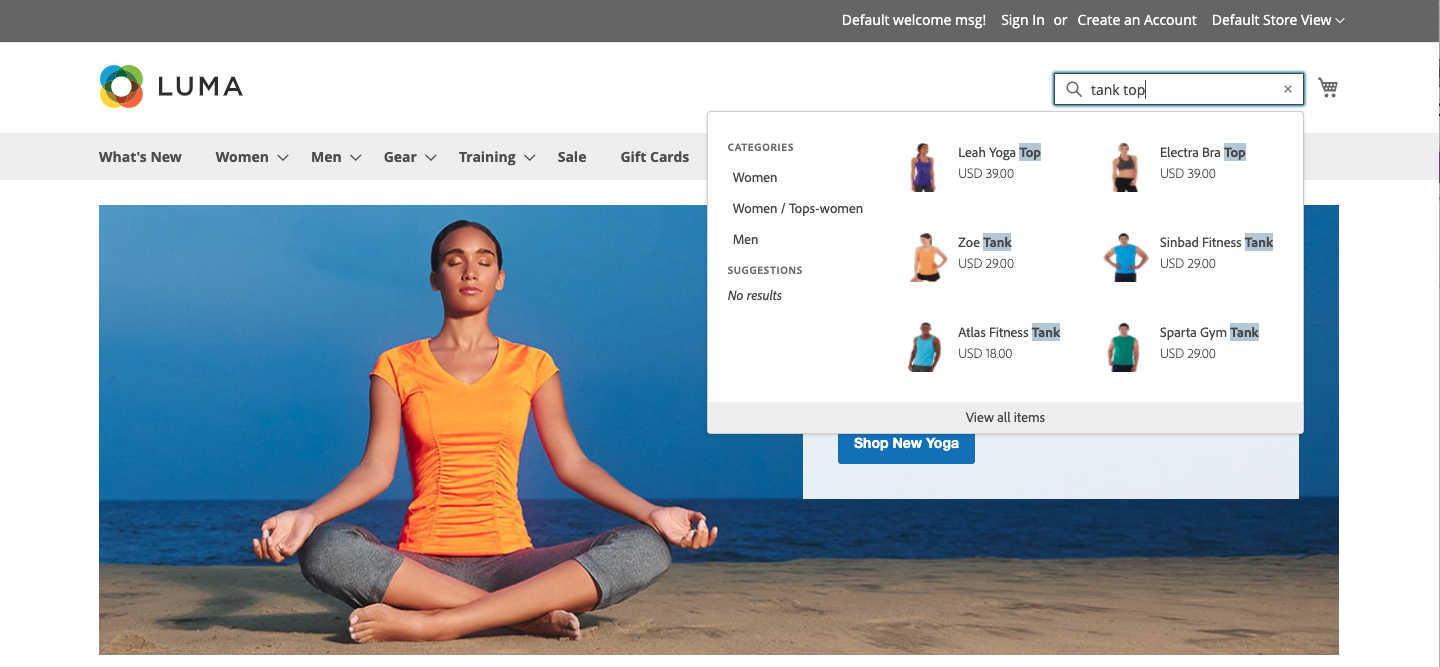
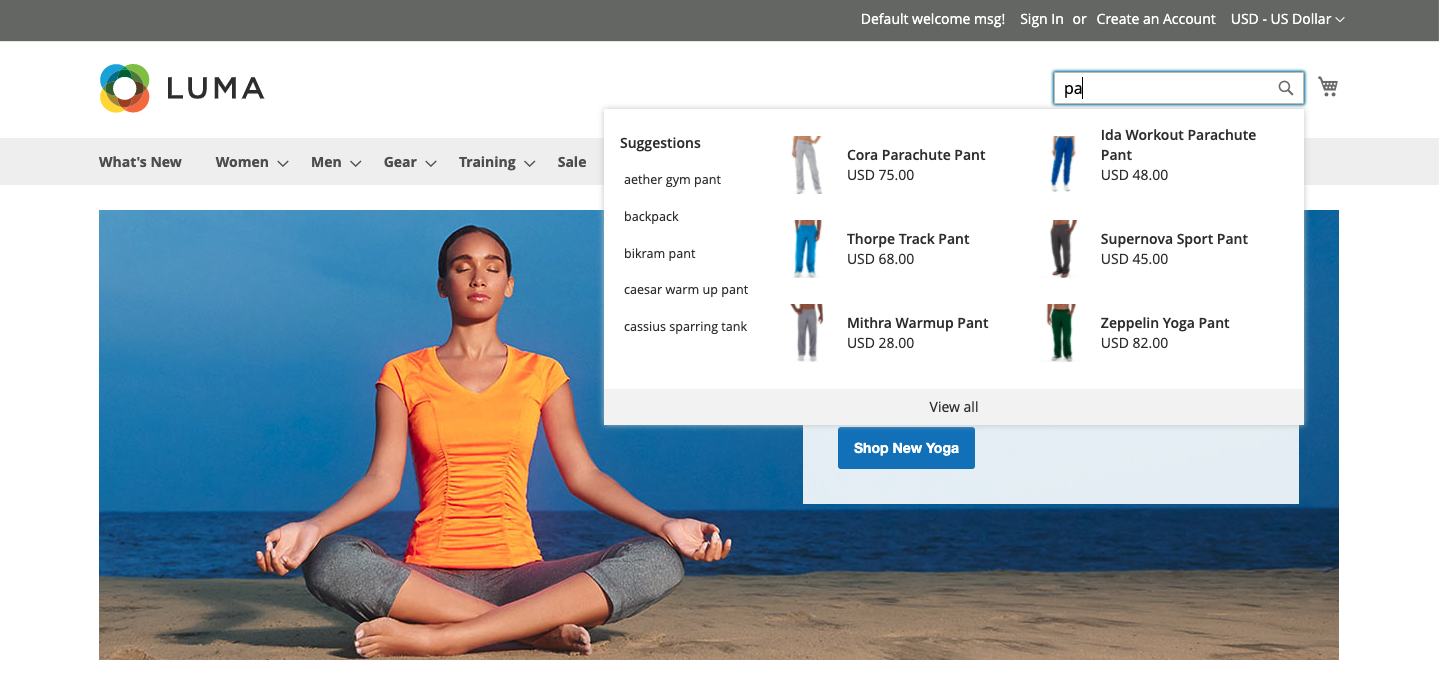
Updated "Search as you type"
Updated screenshot, changed "View all" link, added minimal query config info, and link to devdocs.

diff --git a/src/live-search/quick-tour.md b/src/live-search/quick-tour.md
@@ -9,7 +9,11 @@ With a focus on speed, relevance, and ease of use, Live Search is a game changer
 
 ### Search as you type
 
-Live Search responds with suggested products and a thumbnail image of top search results in a popover as shoppers type queries into the [Search]({% link catalog/search-quick.md %}) box. Shoppers can go immediately to the [product detail]({% link quick-tour/product-page.md %}) page by clicking a suggested or featured product.  A _View all items_ link in the footer of the popover displays the search results page.
+Live Search responds with suggested products and a thumbnail image of top search results in a popover as shoppers type queries into the [Search]({% link catalog/search-quick.md %}) box. Shoppers can go immediately to the [product detail]({% link quick-tour/product-page.md %}) page by clicking a suggested or featured product.  A _View all_ link in the footer of the popover displays the search results page.
+
+The popover can return "search as you type" results for one character or more. To set the minimum number of characters required for a query, change the Catalog Search [Minimal Query Length](https://docs.magento.com/user-guide/catalog/search-configuration.html) configuration setting.
+
+To customize the popover, refer to [Storefront Popover](https://devdocs.magento.com/live-search/storefront-popover.html) in the Live Search developer documentation.
 
 ![Example storefront - search as you type]({% link live-search/assets/storefront-search-as-you-type.png %}){: .zoom}
 _Search as you type_
